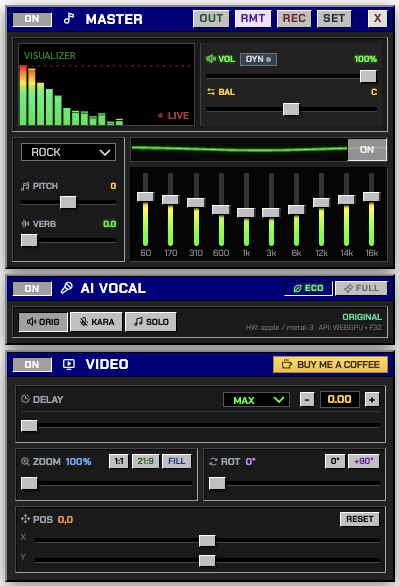
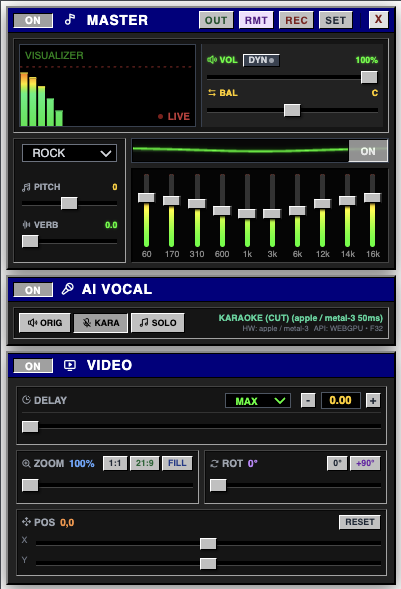
ปรับแต่งครั้งสุดท้าบ

diff --git a/next-amp-extension/popup.html b/next-amp-extension/popup.html
@@ -354,10 +354,6 @@
                 <option value="auto">Auto (Device Default)</option>
               </select>
             </div>
-            <div class="setting-row">
-              <span>Show FPS / Stats</span>
-              <input type="checkbox" id="chk-show-stats" class="accent-green-500" />
-            </div>
           </div>
           <div id="tab-advanced" class="tab-content">
              <div
@@ -454,7 +450,7 @@
               </div>
               <button
                 id="btn-reset"
-                class="win-btn w-full py-0.5 text-red-900 font-bold bg-[#e0e0e0]"
+                class="win-btn w-full h-4 py-0 text-[8px] text-red-900 font-bold bg-[#e0e0e0]"
               >
                 FACTORY RESET
               </button>
@@ -850,7 +846,7 @@
               <div class="flex items-center gap-0.5">
                 <button
                   id="btn-delay-minus"
-                  class="win-btn w-3 h-3 flex items-center justify-center text-[9px] p-0 font-bold"
+                  class="win-btn w-3 h-3 flex items-center justify-center text-[9px] text-gray-800 p-0 font-bold"
                 >
                   -</button
                 ><input
@@ -863,7 +859,7 @@
                   class="w-8 bg-black text-[#ffcc00] border border-gray-600 text-[9px] text-center outline-none font-pixel h-3.5 p-0 mx-0.5"
                 /><button
                   id="btn-delay-plus"
-                  class="win-btn w-3 h-3 flex items-center justify-center text-[9px] p-0 font-bold"
+                  class="win-btn w-3 h-3 flex items-center justify-center text-[9px] text-gray-800 p-0 font-bold"
                 >
                   +
                 </button>
@@ -889,7 +885,7 @@
               <span class="flex items-center gap-0.5"><i class="ph-bold ph-magnifying-glass-plus text-[8px]"></i>ZOOM</span><span id="txt-zoom" class="text-blue-400">100%</span>
             </div>
             <div class="flex gap-0.5">
-              <button id="btn-zoom-fit" class="win-btn h-3 text-[7px] px-1">
+              <button id="btn-zoom-fit" class="win-btn h-3 text-[7px] text-gray-800 px-1">
                 1:1</button
               ><button
                 id="btn-zoom-ultra"
@@ -923,7 +919,7 @@
               <span class="flex items-center gap-0.5"><i class="ph-bold ph-arrows-clockwise text-[8px]"></i>ROT</span><span id="txt-rotate" class="text-purple-400">0°</span>
             </div>
             <div class="flex gap-0.5">
-              <button id="btn-rotate-0" class="win-btn h-3 text-[7px] px-1">
+              <button id="btn-rotate-0" class="win-btn h-3 text-[7px] text-gray-800 px-1">
                 0°</button
               ><button
                 id="btn-rotate-90"
@@ -952,7 +948,7 @@
               <div class="flex items-center gap-1">
                 <span class="flex items-center gap-0.5"><i class="ph-bold ph-arrows-out-cardinal text-[8px]"></i>POS</span><span id="txt-pos" class="text-orange-400">0,0</span>
               </div>
-              <button id="btn-pos-reset" class="win-btn h-3 text-[7px] px-1">
+              <button id="btn-pos-reset" class="win-btn h-3 text-[7px] text-gray-800 px-1">
                 RESET
               </button>
             </div>

diff --git a/next-amp-extension/popup.js b/next-amp-extension/popup.js
@@ -1283,6 +1283,7 @@ function sendParam(key, value, index = null) {
 }
 
 async function toggleRecording() {
+  if (!isAudioMasterOn) return;
   if (!isRecording) {
     const success = await sendMessageWithRetry({
       type: "START_RECORDING",
@@ -1342,6 +1343,13 @@ function setupListeners() {
     if (isAudioMasterOn) {
       initCapture(sessionManager.sessionMode);
     } else {
+      if (isRecording) {
+        syncRecordingUI(false);
+        await sendMessageWithRetry({
+          type: "STOP_RECORDING",
+          tabId: currentTabId,
+        });
+      }
       captureRequestId++;
       if (currentTabId) {
         sendMessageWithRetry({ type: "STOP_CAPTURE", tabId: currentTabId });
@@ -1724,6 +1732,15 @@ function updateMasterTogglesUI() {
   const eqArea = $("#eq-controls-area");
   const eqContainer = $("#eq-container");
 
+  // Output, Remote and Recording all depend on an active tab-audio capture.
+  // Settings stays available so Video and preferences can still be adjusted.
+  [$("#btn-open-player"), $("#btn-remote-connect"), $("#btn-rec-top"), $("#btn-rec-action")]
+    .filter(Boolean)
+    .forEach((button) => {
+      button.disabled = !isAudioMasterOn;
+      button.setAttribute("aria-disabled", String(!isAudioMasterOn));
+    });
+
   if (isAudioMasterOn) {
     btnAudio.textContent = "ON";
     btnAudio.classList.add("pressed", "text-white");
@@ -1767,14 +1784,28 @@ function updateMasterTogglesUI() {
   }
 
   const vocalBlock = $("#block-vocal");
+  const vocalControls = $("#vocal-controls-area");
+  if (!isAudioMasterOn && isVocalOn) {
+    isVocalOn = false;
+    sessionManager.setSetting({ isVocalOn: false });
+    sendParam("isVocalOn", false);
+  }
   if (isAudioMasterOn) {
-    if (vocalBlock) vocalBlock.style.pointerEvents = "auto";
+    if (vocalBlock) {
+      vocalBlock.style.opacity = "1";
+      vocalBlock.style.pointerEvents = "auto";
+    }
+    vocalControls?.classList.remove("master-disabled");
     updateVocalUI(currentVocalMode);
   } else {
     if (vocalBlock) {
-      vocalBlock.style.opacity = "0.4";
+      vocalBlock.style.opacity = "1";
       vocalBlock.style.pointerEvents = "none";
     }
+    if (vocalControls) {
+      vocalControls.classList.add("master-disabled");
+    }
+    updateVocalMasterUI();
   }
 }
 
@@ -1880,12 +1911,12 @@ function updateNormalizeButton() {
   if (!btn || !indicator) return;
   if (isNormalizeOn) {
     btn.className =
-      "win-btn w-full h-full border text-[7px] font-bold flex items-center justify-center gap-0.5 border-[#00ff00] text-[#00ff00] bg-black";
+      "win-btn w-full h-full border text-[7px] px-1 font-bold flex items-center justify-center gap-0.5 border-[#00ff00] text-[#00ff00] bg-black";
     indicator.className =
       "w-1 h-1 rounded-full bg-[#00ff00] shadow-[0_0_5px_#00ff00]";
   } else {
     btn.className =
-      "win-btn w-full h-full border text-[7px] font-bold flex items-center justify-center gap-0.5 border-gray-500 text-gray-300 bg-gray-700";
+      "win-btn w-full h-full border text-[7px] px-1 font-bold flex items-center justify-center gap-0.5 border-gray-500 text-gray-300 bg-gray-700";
     indicator.className = "w-1 h-1 rounded-full bg-gray-400";
   }
 }

diff --git a/next-amp-extension/styles.css b/next-amp-extension/styles.css
@@ -70,8 +70,6 @@ body {
 }
 
 .win-btn {
-  background-color: #c0c0c0;
-  color: black;
   border-top: 1px solid #fff;
   border-left: 1px solid #fff;
   border-right: 1px solid #000;
@@ -84,8 +82,42 @@ body {
   font-weight: bold;
   font-size: 9px;
   line-height: 1;
+}
+
+/* Store CSS is concatenated after Tailwind. Keep defaults only when the
+   button does not provide its own utility value. */
+.win-btn:not([class*="bg-"]) {
+  background-color: #c0c0c0;
+}
+.win-btn:not([class*="text-"]) {
+  color: black;
+}
+.win-btn[class*="text-[4px]"] { font-size: 4px; }
+.win-btn[class*="text-[6px]"] { font-size: 6px; }
+.win-btn[class*="text-[7px]"] { font-size: 7px; }
+.win-btn[class*="text-[7.5px]"] { font-size: 7.5px; }
+.win-btn[class*="text-[8px]"] { font-size: 8px; }
+.win-btn[class*="text-[8.5px]"] { font-size: 8.5px; }
+.win-btn[class*="text-[9px]"] { font-size: 9px; }
+.win-btn[class*="text-[10px]"] { font-size: 10px; }
+.win-btn[class*="text-[11px]"] { font-size: 11px; }
+.win-btn:not([class*="h-"]) {
   height: 14px;
+}
+.win-btn:not([class*="p-"]):not([class*="px-"]):not([class*="py-"]) {
   padding: 0 4px;
+}
+
+#btn-open-player,
+#btn-remote-connect,
+#btn-rec-top,
+#btn-settings {
+  font-size: 8px;
+}
+.win-btn:disabled {
+  cursor: not-allowed;
+  filter: grayscale(100%);
+  opacity: 0.45;
 }
 .win-btn:active,
 .win-btn.pressed {
@@ -318,7 +350,7 @@ input[type="range"].h-slider::-webkit-slider-thumb {
   flex: 1;
   padding: 6px 4px;
   font-family: "Chakra Petch", sans-serif;
-  font-size: 10px;
+  font-size: 8px;
   font-weight: bold;
   color: #888;
   background: #151515;
@@ -327,6 +359,14 @@ input[type="range"].h-slider::-webkit-slider-thumb {
   border-bottom: 1px solid #444;
   cursor: pointer;
   text-align: center;
+}
+
+/* AI controls should look like the other disabled panels when master audio
+   is off, instead of falling back to the light retro button face. */
+#vocal-controls-area.master-disabled .win-btn {
+  background-color: #1a1a1a;
+  color: #555;
+  border-color: #333;
 }
 .tab-btn:last-child {
   border-right: none;

diff --git a/next-amp-extension/modules/settings-modal.js b/next-amp-extension/modules/settings-modal.js
@@ -65,10 +65,6 @@ const MODAL_HTML = `
             <option value="auto">Auto (Device Default)</option>
           </select>
         </div>
-        <div class="setting-row">
-          <span>Show FPS / Stats</span>
-          <input type="checkbox" id="chk-show-stats" class="accent-green-500" />
-        </div>
       </div>
 
       <div id="tab-advanced" class="tab-content">
@@ -105,7 +101,7 @@ const MODAL_HTML = `
               <input type="text" id="txt-ext-id" class="flex-1 bg-[#111] border border-gray-600 text-[8px] text-gray-400 px-1 h-4 outline-none cursor-default" readonly value="Loading..." />
               <button id="btn-copy-id" class="win-btn w-8 h-4 text-[8px]" title="Copy ID">CPY</button>
           </div>
-          <button id="btn-reset" class="win-btn w-full py-0.5 text-red-900 font-bold bg-[#e0e0e0]">FACTORY RESET</button>
+          <button id="btn-reset" class="win-btn w-full h-4 py-0 text-[8px] text-red-900 font-bold bg-[#e0e0e0]">FACTORY RESET</button>
         </div>
       </div>
 
